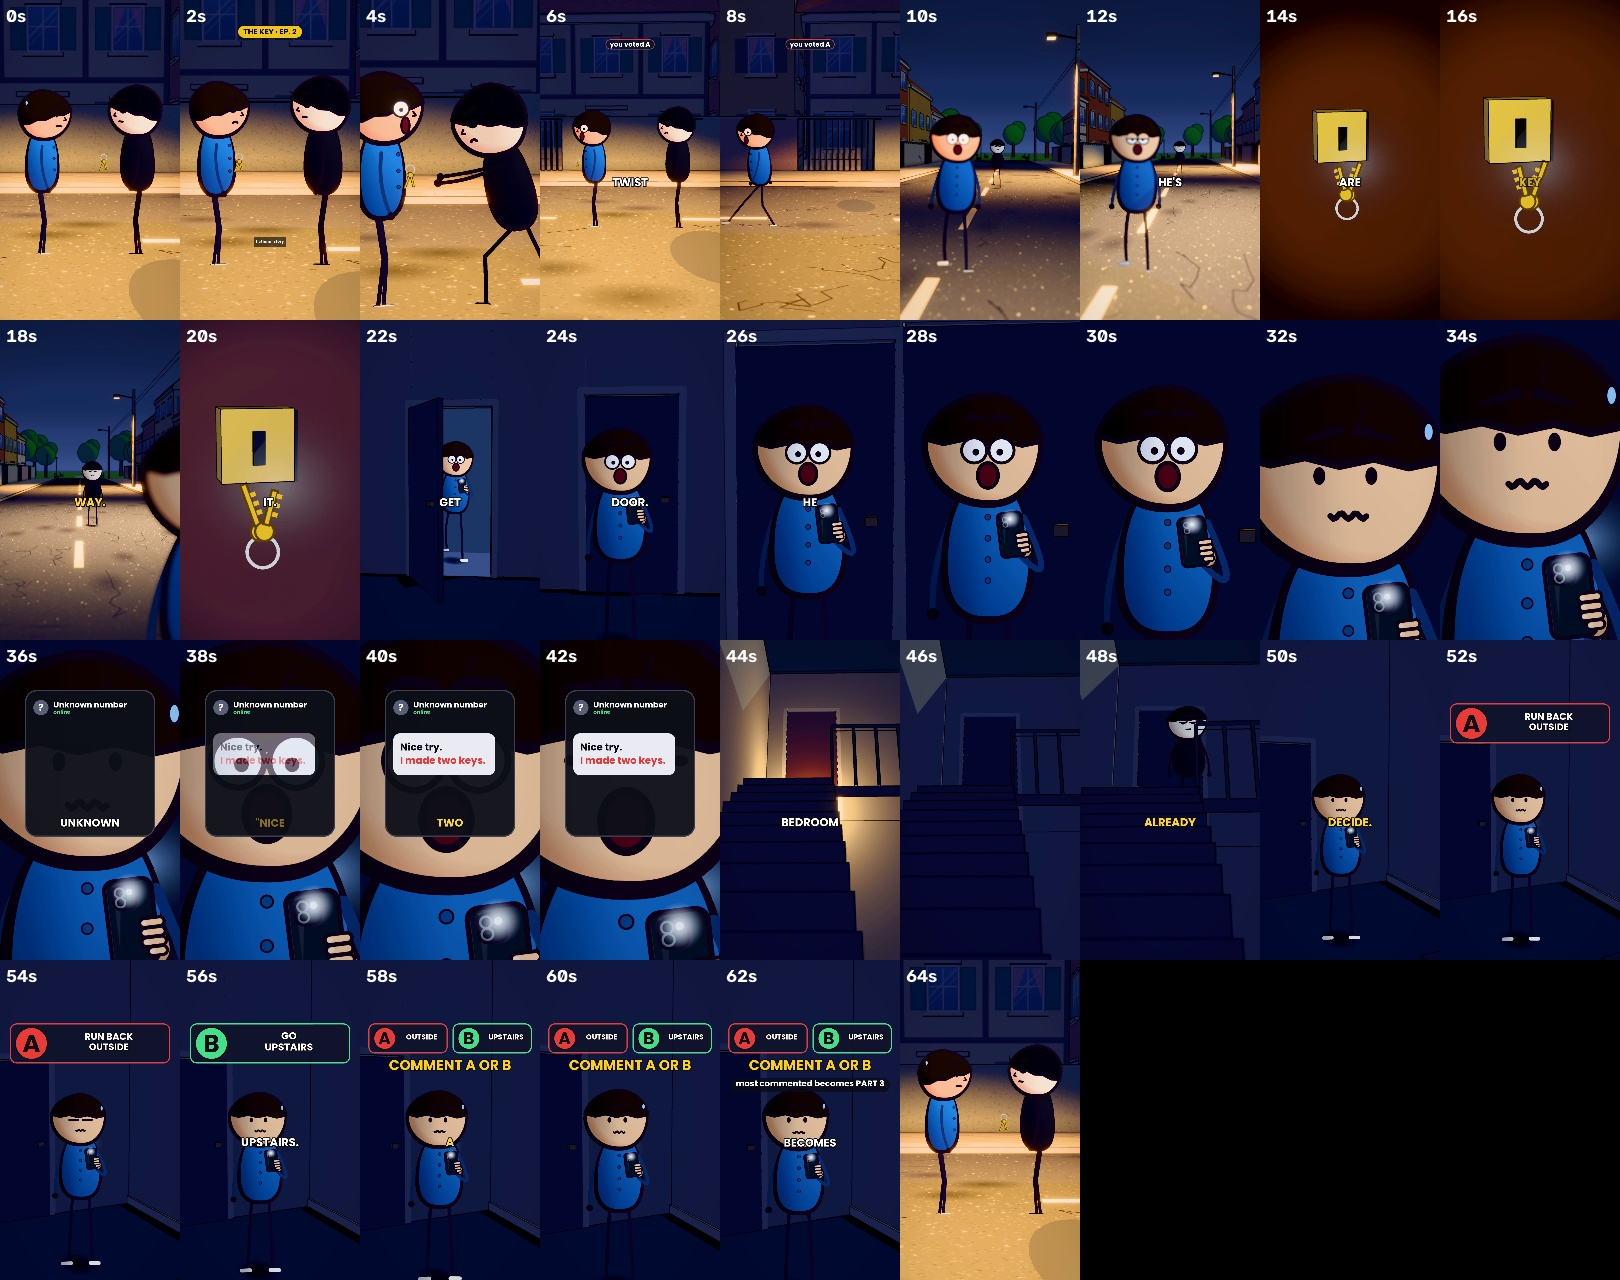
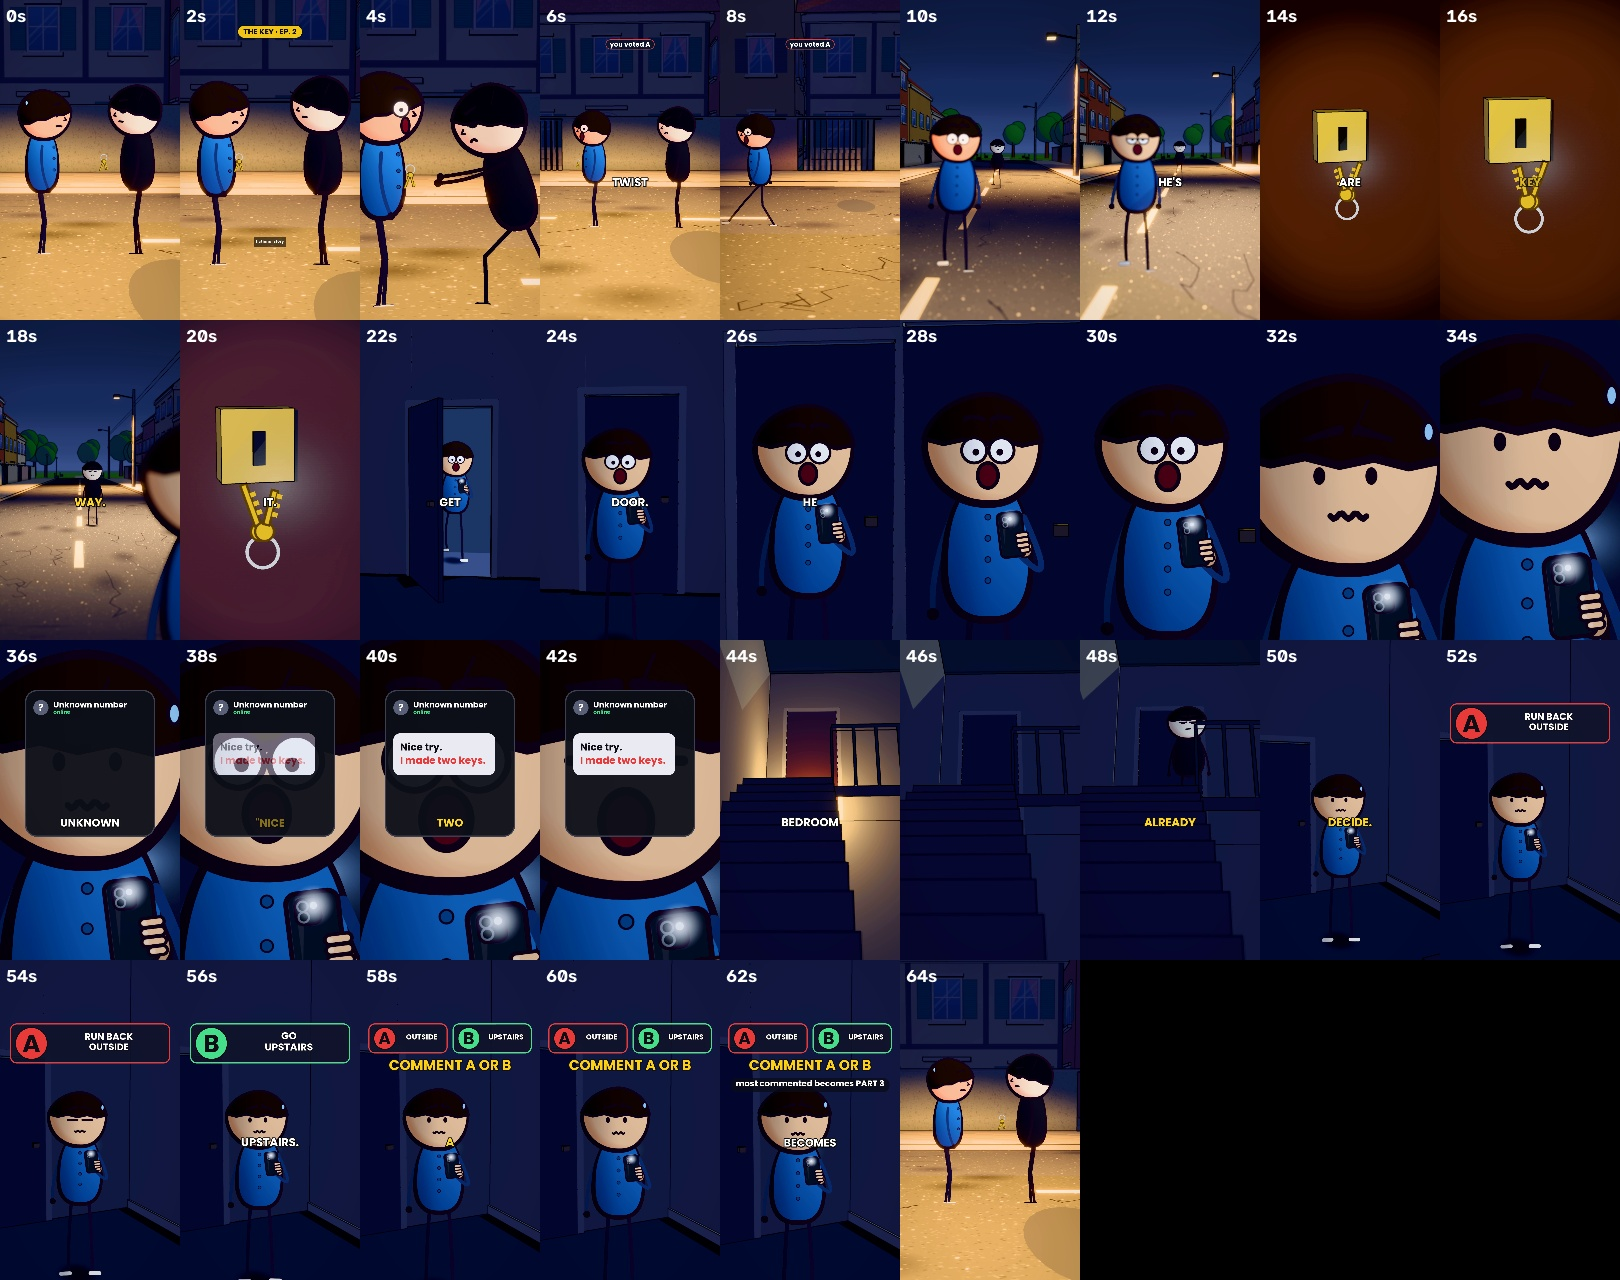
v0.25: vídeo 122 The Key Ep. 2 (QC 15/15, capa, registros)
Claude-Session: https://claude.ai/code/session_01Adyz318NBz57nGHwGc8mF6

diff --git a/projeto_videos3d/v2/ep122/LIMITACOES.md b/projeto_videos3d/v2/ep122/LIMITACOES.md
@@ -1,0 +1,19 @@
+# Limitações conhecidas: vídeo 122 (The Key · Ep. 2, canal You Decide 3D)
+
+- **Imagem:** 1950 quadros renderizados em 3D nativo 1080x1920 (Remotion + three.js, skill Xavier, composição `Chave2Short`), JPEG q95, sem upscale.
+- **Roteiro:** continuação pela opção A, a mais pedida nos comentários do Ep. 1. Ação sem violência gráfica: arranco da chave, perseguição, porta batendo e silhueta na escada.
+- **Voz:** a mesma do Ep. 1, ElevenLabs `eleven_v3`, `en` (IA). 4 takes (F1–F4) colocados com `montar.py`. Velocidade não alterada. Cada palavra conferida com o Whisper em inglês.
+- **Mixagem (pedido: efeitos sem cobrir a narração):**
+  - efeitos abaixam 8 dB pelo envelope da voz;
+  - vibração do celular antes de "Your phone";
+  - notas de tensão depois das palavras;
+  - `SFX_BUS 1,6` e `W_TENSAO 0,55` (só neste episódio).
+  - Medido no MP4 final, em janelas de 100 ms: mediana nas palavras −15,5 dB e mediana nas pausas −27,5 dB. O p95 nas pausas fica em −8,9 dB, com os efeitos fortes, contra −7,5 dB nas palavras.
+- **1º render reprovado no QC** (6 trechos congelados): o loop ficava 1,1 s parado, e a escada (45 s) e o início da escolha (50 s) ficavam quase parados.
+  - Correção: as câmeras dos planos 12–14 se movem o tempo todo, e o loop desacelera até a posição do quadro 0.
+  - Os quadros antigos estão em `frames_v1_backup/` (fora do git).
+- **Cortes bruscos verificados:**
+  - perto de 7 s, um poste em primeiro plano cruza a câmera por cerca de 4 quadros (cena, não erro);
+  - 44,8 s é a luz embaixo da porta apagando (roteiro).
+- **QC:** 15/15. −14,1 LUFS, pico −1,8 dBTP, correlação da narração 0,931, 0 trechos congelados ou pretos, emenda do loop 0,1/255 nos quadros (0,8/255 no MP4).
+- **Capa:** quadro de 10,0 s (a perseguição), "RUN. HE'S CHASING YOU" (`thumbnails/122_the_key_ep2_cover.jpg`).

diff --git a/projeto_videos3d/CHANGELOG.md b/projeto_videos3d/CHANGELOG.md
@@ -5,6 +5,13 @@
 - `scripts/add_narration.py`: MP3 → MP4 com legenda sincronizada, ducking e −14 LUFS.
 - Para recuperar: `git checkout be24c75 -- projeto_videos3d` (a tag não pôde ser enviada ao GitHub: o acesso desta sessão só permite o branch de trabalho).
 
+## v0.25: vídeo 122 "The Key · Ep. 2" (continuação pela opção A, canal You Decide 3D) (2026-11-27)
+- Nova composição `Chave2Short` (`teste_xavier/src/videos/chave2/`): agarrão e arranco da chave, perseguição na rua, fechadura, porta batendo, interior da casa, celular, escada com a luz do quarto apagando.
+- Narração em inglês com a mesma voz do Ep. 1 (`narracao/122_vozes/`). Efeitos novos de IA em `assets/sfx_ia/` (ver `CREDITOS.md`).
+- Mixagem com os efeitos abaixando pela voz. `assemble.py` passa a ler `W_TENSAO` por episódio (padrão 0,75, os outros vídeos não mudam).
+- 1º render reprovado no QC por imagem congelada. Câmeras dos planos 12–14 refeitas e esses planos renderizados de novo.
+- QC 15/15 (−14,1 LUFS, TP −1,8). Detalhes em `v2/ep122/LIMITACOES.md` e `v2/ep122/qc_report_122.json`. Capa: quadro de 10,0 s.
+
 ## v0.24: vídeo 121 "The Key · Ep. 1" (A Chave em inglês, canal You Decide 3D) (2026-11-26)
 - Mesmos quadros do 21, sem novo render; voz Spuds Oxley em inglês (`eleven_v3`, `en`), cada frase no instante da frase em português (`narracao/121_vozes/montar.py`), palavras de ação alinhadas em 3 frases.
 - Títulos, legenda, capa, foto de perfil e banner do canal em inglês (`canal_us/`). `transcribe.py` com `WHISPER_LANG` (padrão `pt`).
